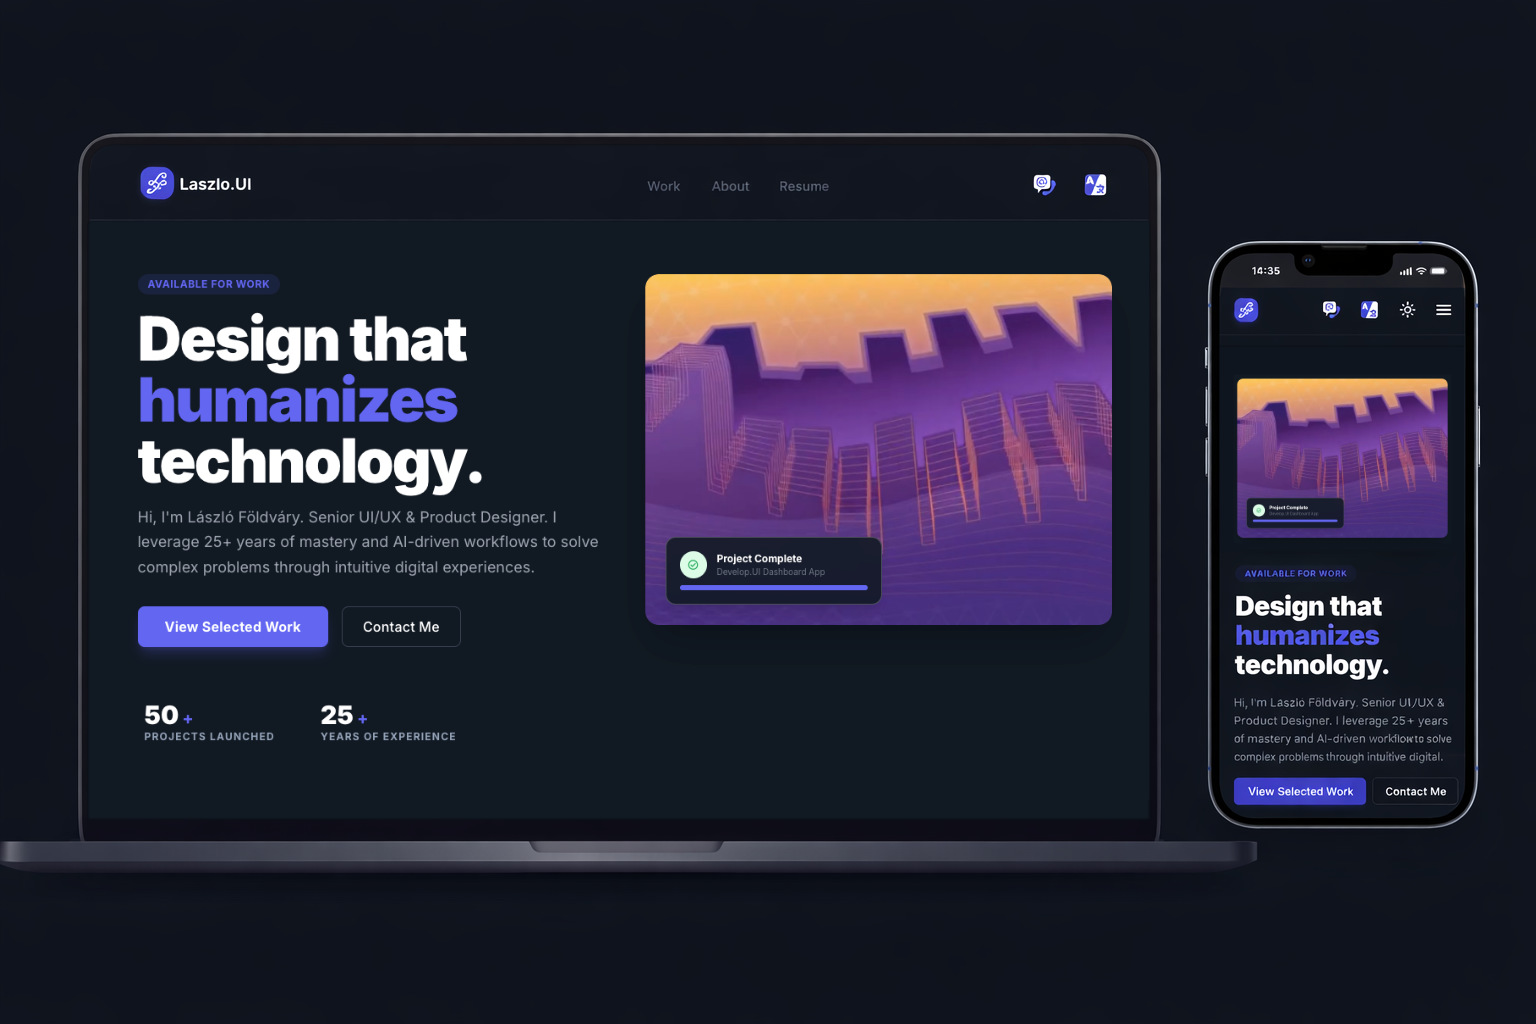
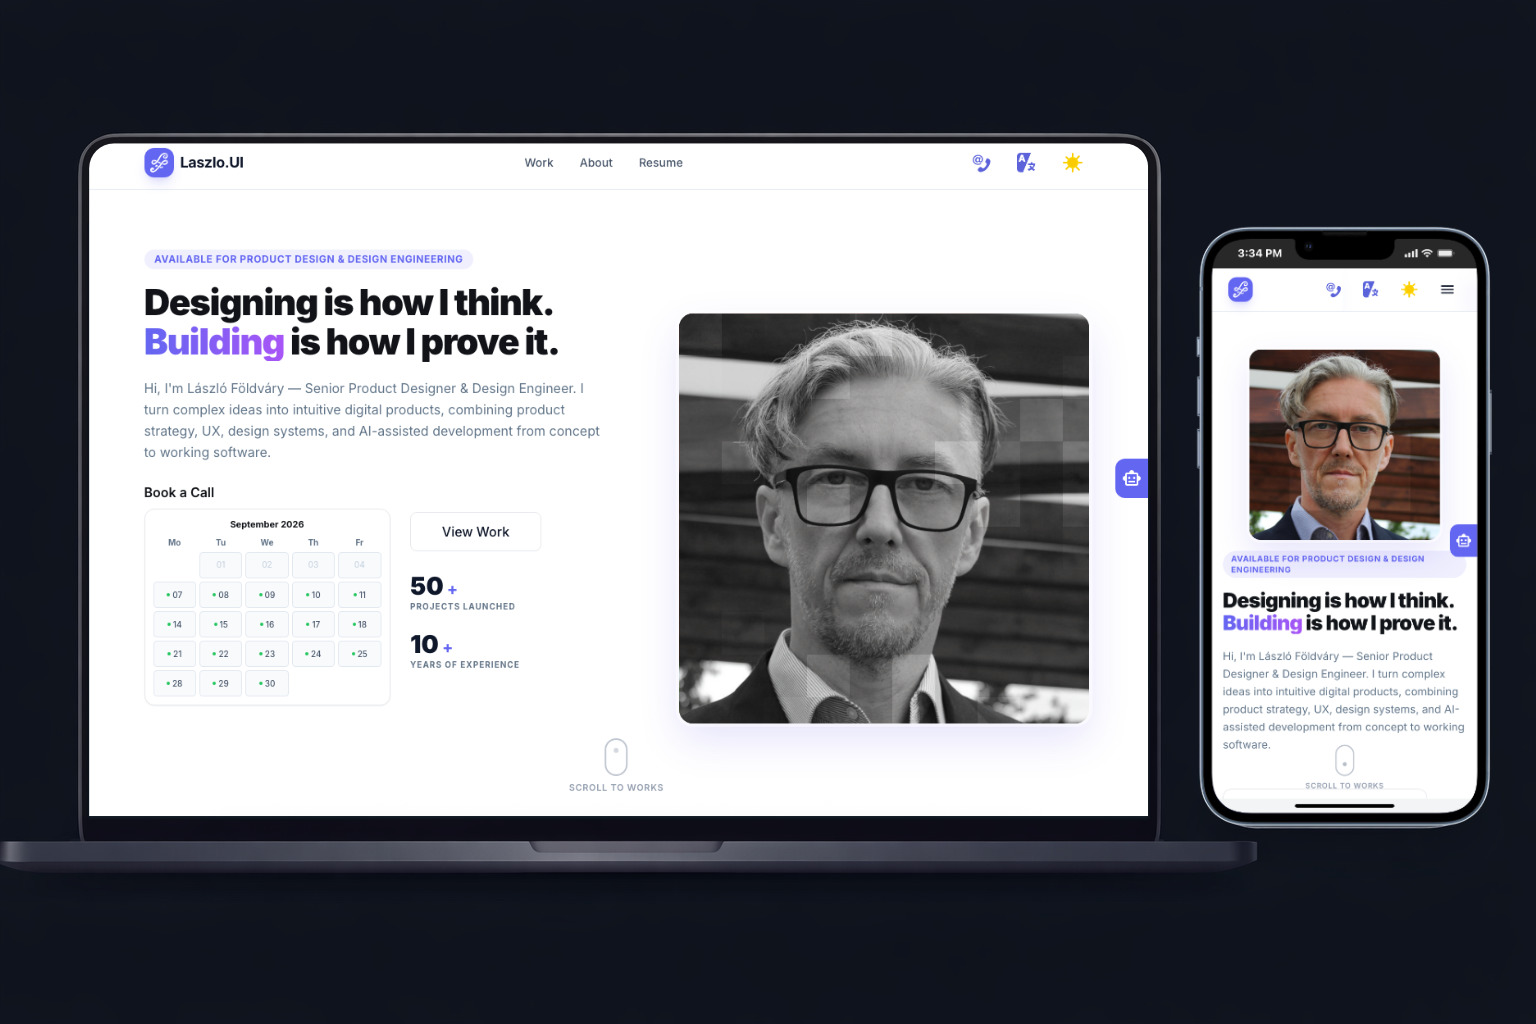
feat: update hero image in style guide and enhance scroll hint functionality in infinite scroll for improved user experience

diff --git a/js/infinite-scroll.js b/js/infinite-scroll.js
@@ -141,12 +141,15 @@ document.addEventListener("DOMContentLoaded", () => {
       syncVideoPlayback();
     }, 150);
     animationId = requestAnimationFrame(animationLoop);
+    startScrollHintIntro();
   };
 
   const disableAnimation = () => {
     if (!isAnimated) return;
     isAnimated = false;
-    container?.classList.remove("is-scroll-animated");
+    container?.classList.remove("is-scroll-animated", "is-hint-intro");
+    clearTimeout(hintIntroTimer);
+    hintIntroTimer = null;
 
     stopAnimation();
     col1.innerHTML = originalHTML;
@@ -154,6 +157,24 @@ document.addEventListener("DOMContentLoaded", () => {
     height1 = 0;
     y1 = 0;
     refreshVideos();
+  };
+
+  let hintIntroTimer = null;
+
+  const endScrollHintIntro = () => {
+    container?.classList.remove("is-hint-intro");
+    clearTimeout(hintIntroTimer);
+    hintIntroTimer = null;
+  };
+
+  const startScrollHintIntro = () => {
+    if (!container) return;
+    endScrollHintIntro();
+    // Brief auto-show so first-time visitors notice scrollability
+    requestAnimationFrame(() => {
+      container.classList.add("is-hint-intro");
+      hintIntroTimer = setTimeout(endScrollHintIntro, 3800);
+    });
   };
 
   const onBreakpointChange = () => {
@@ -221,6 +242,7 @@ document.addEventListener("DOMContentLoaded", () => {
 
         col1.style.transform = `translate3d(0, ${y1}px, 0)`;
         syncVideoPlayback();
+        endScrollHintIntro();
         e.preventDefault();
       },
       { passive: false }

diff --git a/case-study-styleguide.html b/case-study-styleguide.html
@@ -256,7 +256,7 @@
             <!-- HERO: PROJECT ANTI-GRAVITY -->
             <section class="fixed inset-0 h-screen flex flex-col justify-center overflow-hidden bg-[#0a0f14] z-0">
                 <div class="absolute inset-0 z-0">
-                    <img src="img/style-guide/affinity.jpg" alt="foeldvary.com Interactive Portfolio Platform"
+                    <img src="img/style-guide/hero.jpg" alt="foeldvary.com Interactive Portfolio Platform"
                         class="w-full h-full object-cover opacity-50">
                     <div class="absolute inset-0 cs-footer-gradient"></div>
                     <div class="absolute inset-0 spec-grid opacity-10 mix-blend-overlay"></div>

diff --git a/work.html b/work.html
@@ -134,7 +134,8 @@
         justify-content: center;
       }
 
-      #infinite-scroll-container.is-scroll-animated:hover .work-cards-scroll-hint {
+      #infinite-scroll-container.is-scroll-animated:hover .work-cards-scroll-hint,
+      #infinite-scroll-container.is-scroll-animated.is-hint-intro .work-cards-scroll-hint {
         opacity: 1;
       }
 
